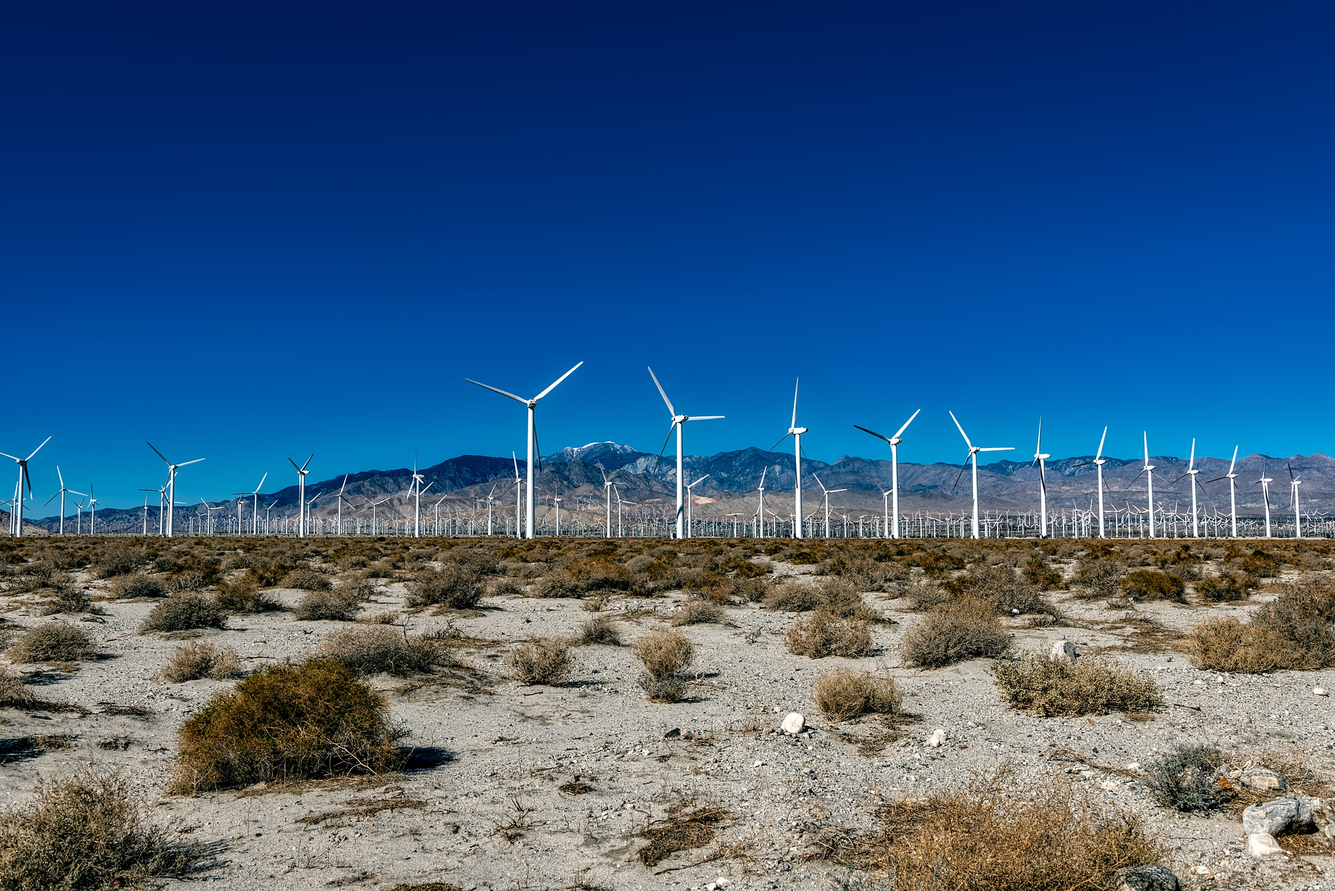
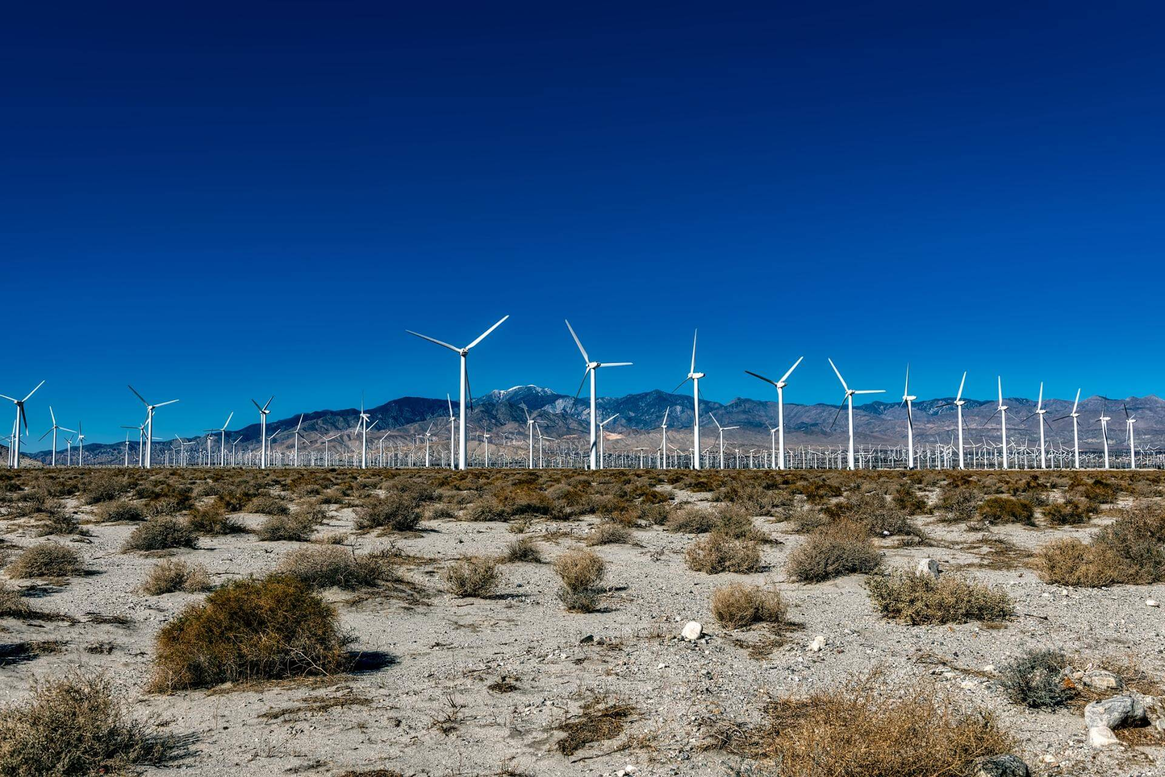
Optimized images. Added mist and fog

Changed region(s): [[0.7812, 0.7812, 0.8125, 0.8125], [0.75, 0.75, 0.7812, 0.7812], [0.7188, 0.9688, 0.75, 1.0]]

diff --git a/build/js/localweather.min.js b/build/js/localweather.min.js
@@ -1,2 +1,2 @@
-/*! localweather 2017-03-02 */
-function locationRequest(){$.ajax({url:"https://ip.nf/me.json",dataType:"jsonp",success:function(a){lat=a.ip.latitude,lon=a.ip.longitude,units="metric",displayTempUnits="<span class='units'>&#8451<span>",displayWindUnits="meter/sec","United States"!=a.ip.country&&"Liberia"!=a.ip.country&&"Myanmar"!=a.ip.country||(units="imperial",displayTempUnits="<span class='units'>&#8457<span>",displayWindUnits="miles/hour"),weatherRequest()}})}function weatherRequest(){$.ajax({url:"http://api.openweathermap.org/data/2.5/weather?lat="+lat+"&lon="+lon+"&units="+units+"&appid=6a98c6183cbd635f197b040460d18089",dataType:"jsonp",success:function(a){setBackground(a.weather[0].id);var b=a.weather[0].main,c=String(Math.round(Number(a.main.temp)))+displayTempUnits,d=a.weather[0].description,e=a.name,f="http://openweathermap.org/img/w/"+a.weather[0].icon+".png",g="";g=void 0!==a.wind.deg?getWindDirection(a.wind.deg)+" "+a.wind.speed+" "+displayWindUnits:a.wind.speed+" "+displayWindUnits,$("#location").html(e),$("#icon").prepend('<img id="theImg" src="'+f+'" />'),$("#temperature").html(c),$("#sky").html(b),$("#description").html(d),$("#wind").html(g)}})}function getWindDirection(a){if(a<0||a>360)return"";var b=Math.floor(a/22.5+.5),c=["N","NNE","NE","ENE","E","ESE","SE","SSE","S","SSW","SW","WSW","W","WNW","NW","NNW"];return c[b%16]}function setBackground(a){var b="default";800==a&&(b="clear-sky"),a>=300&&a<=531?b="rain":a>=801&&a<=804?(801==a&&(b="few clouds"),802==a&&(b="scattered-clouds"),803==a&&(b="broken-clouds"),804==a&&(b="overcast-clouds")):a>=600&&a<=622?b="snow":a>=200&&a<=232?b="thunderstorm":a>=900&&a<=906&&(904==a&&(b="hot"),905==a&&(b="windy"));var c="url('img/"+b+".jpg')";document.body.style.backgroundImage=c}locationRequest();
+/*! localweather 2017-03-03 */
+function locationRequest(){$.ajax({url:"https://ip.nf/me.json",dataType:"jsonp",success:function(a){lat=a.ip.latitude,lon=a.ip.longitude,units="metric",displayTempUnits="<span class='units'>&#8451<span>",displayWindUnits="meter/sec","United States"!=a.ip.country&&"Liberia"!=a.ip.country&&"Myanmar"!=a.ip.country||(units="imperial",displayTempUnits="<span class='units'>&#8457<span>",displayWindUnits="miles/hour"),weatherRequest()}})}function weatherRequest(){$.ajax({url:"http://api.openweathermap.org/data/2.5/weather?lat="+lat+"&lon="+lon+"&units="+units+"&appid=6a98c6183cbd635f197b040460d18089",dataType:"jsonp",success:function(a){setBackground(a.weather[0].id);var b=a.weather[0].main,c=String(Math.round(Number(a.main.temp)))+displayTempUnits,d=a.weather[0].description,e=a.name,f="http://openweathermap.org/img/w/"+a.weather[0].icon+".png",g="";g=void 0!==a.wind.deg?getWindDirection(a.wind.deg)+" "+a.wind.speed+" "+displayWindUnits:a.wind.speed+" "+displayWindUnits,$("#location").html(e),$("#icon").prepend('<img id="theImg" src="'+f+'" />'),$("#temperature").html(c),$("#sky").html(b),$("#description").html(d),$("#wind").html(g)}})}function getWindDirection(a){if(a<0||a>360)return"";var b=Math.floor(a/22.5+.5),c=["N","NNE","NE","ENE","E","ESE","SE","SSE","S","SSW","SW","WSW","W","WNW","NW","NNW"];return c[b%16]}function setBackground(a){var b="default";800==a&&(b="clear-sky"),a>=300&&a<=531?b="rain":a>=801&&a<=804?(801==a&&(b="few clouds"),802==a&&(b="scattered-clouds"),803==a&&(b="broken-clouds"),804==a&&(b="overcast-clouds")):a>=600&&a<=622?b="snow":a>=200&&a<=232?b="thunderstorm":a>=900&&a<=906?(904==a&&(b="hot"),905==a&&(b="windy")):a>=701&&a<=781&&(701==a&&(b="mist"),741==a&&(b="fog"));var c="url('img/"+b+".jpg')";document.body.style.backgroundImage=c}locationRequest();

diff --git a/src/js/localweather.js b/src/js/localweather.js
@@ -115,6 +115,15 @@ function setBackground(id) {
             condition = "windy";
         }
     }
+    else if (id >= 701 && id <= 781) {
+        // 7xx: Atmosphere
+        if (id == 701) {
+            condition = "mist";
+        }
+        if (id == 741) {
+            condition = "fog";
+        }
+    }
     var url = "url('img/" + condition + ".jpg')";
     document.body.style.backgroundImage = url;
 }
